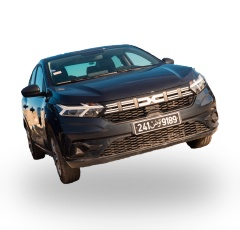
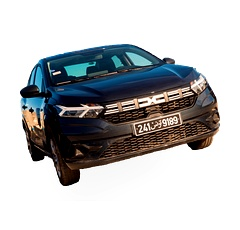
first test

diff --git a/projects/car_preprocessing/src/dataset_builder/studio_processor.py b/projects/car_preprocessing/src/dataset_builder/studio_processor.py
@@ -1,0 +1,268 @@
+"""
+Module de post-traitement pour simuler un rendu studio professionnel.
+Auteur: Expert Senior Python & Computer Vision
+"""
+
+import numpy as np
+from PIL import Image, ImageEnhance, ImageFilter
+import cv2
+
+
+def apply_professional_studio_look(
+    rgba_image,
+    output_size=(1024, 1024),
+    padding=100,
+    shadow_opacity=0.3,
+    shadow_blur_radius=50,
+    shadow_offset_y=30,
+    shadow_flatten_factor=0.6,
+    sharpness_factor=1.3,
+    contrast_factor=1.15,
+    saturation_factor=1.2,
+    background_color=(255, 255, 255)
+):
+    """
+    Applique un post-traitement professionnel à une image RGBA détourée.
+    
+    Cette fonction simule une photo prise en studio professionnel avec :
+    - Ombre portée réaliste (drop shadow avec perspective)
+    - Color grading (netteté, contraste, saturation)
+    - Composition centrée sur fond blanc
+    
+    Args:
+        rgba_image: PIL.Image en mode RGBA (objet sur fond transparent)
+        output_size: Tuple (width, height) pour la taille finale (carré recommandé)
+        padding: Marge autour de l'objet en pixels
+        shadow_opacity: Opacité de l'ombre (0.0 à 1.0)
+        shadow_blur_radius: Rayon du flou gaussien pour l'ombre
+        shadow_offset_y: Décalage vertical de l'ombre (pixels)
+        shadow_flatten_factor: Facteur d'aplatissement de l'ombre (0.0 à 1.0)
+        sharpness_factor: Facteur de netteté (1.0 = original, >1.0 = plus net)
+        contrast_factor: Facteur de contraste (1.0 = original, >1.0 = plus de contraste)
+        saturation_factor: Facteur de saturation (1.0 = original, >1.0 = plus saturé)
+        background_color: Couleur de fond RGB (tuple)
+    
+    Returns:
+        PIL.Image: Image finale en mode RGB avec rendu studio professionnel
+    """
+    
+    if not isinstance(rgba_image, Image.Image):
+        raise TypeError("rgba_image doit être un objet PIL.Image")
+    
+    if rgba_image.mode != 'RGBA':
+        raise ValueError("L'image doit être en mode RGBA")
+    
+    # ========================================================================
+    # ÉTAPE 1: EXTRACTION DU CANAL ALPHA ET CALCUL DE LA BOUNDING BOX
+    # ========================================================================
+    
+    # Extraire le canal alpha (masque de l'objet)
+    alpha_channel = rgba_image.split()[3]
+    
+    # Trouver la bounding box de l'objet (zone non-transparente)
+    bbox = alpha_channel.getbbox()
+    
+    if bbox is None:
+        # Image complètement transparente, retourner un fond blanc
+        return Image.new('RGB', output_size, background_color)
+    
+    # Extraire l'objet selon sa bounding box
+    cropped_rgba = rgba_image.crop(bbox)
+    obj_width, obj_height = cropped_rgba.size
+    
+    # ========================================================================
+    # ÉTAPE 2: CALCUL DES DIMENSIONS FINALES AVEC PADDING
+    # ========================================================================
+    
+    # Calculer l'échelle pour que l'objet rentre dans output_size avec padding
+    max_obj_width = output_size[0] - (2 * padding)
+    max_obj_height = output_size[1] - (2 * padding)
+    
+    scale = min(max_obj_width / obj_width, max_obj_height / obj_height)
+    
+    # Nouvelles dimensions de l'objet
+    new_width = int(obj_width * scale)
+    new_height = int(obj_height * scale)
+    
+    # Redimensionner l'objet (haute qualité)
+    resized_rgba = cropped_rgba.resize(
+        (new_width, new_height),
+        Image.Resampling.LANCZOS
+    )
+    
+    # ========================================================================
+    # ÉTAPE 3: GÉNÉRATION DE L'OMBRE PORTÉE RÉALISTE (DROP SHADOW)
+    # ========================================================================
+    
+    print("[Studio] Génération de l'ombre portée...")
+    
+    # 3.1: Extraire le canal alpha de l'objet redimensionné
+    alpha_resized = resized_rgba.split()[3]
+    
+    # 3.2: Créer le masque d'ombre à partir de l'alpha
+    # L'ombre est une copie du canal alpha
+    shadow_mask = alpha_resized.copy()
+    
+    # 3.3: Aplatir l'ombre (perspective transformation simplifiée)
+    # On réduit la hauteur de l'ombre pour simuler une projection au sol
+    shadow_width = new_width
+    shadow_height = int(new_height * shadow_flatten_factor)
+    
+    # Redimensionner l'ombre (aplatissement)
+    shadow_flattened = shadow_mask.resize(
+        (shadow_width, shadow_height),
+        Image.Resampling.LANCZOS
+    )
+    
+    # 3.4: Appliquer un flou gaussien pour adoucir l'ombre
+    shadow_blurred = shadow_flattened.filter(
+        ImageFilter.GaussianBlur(radius=shadow_blur_radius)
+    )
+    
+    # 3.5: Ajuster l'opacité de l'ombre
+    # Convertir en numpy pour manipulation rapide
+    shadow_array = np.array(shadow_blurred).astype(np.float32)
+    shadow_array = shadow_array * shadow_opacity
+    shadow_final = Image.fromarray(shadow_array.astype(np.uint8), mode='L')
+    
+    # ========================================================================
+    # ÉTAPE 4: COMPOSITION SUR FOND BLANC
+    # ========================================================================
+    
+    print("[Studio] Composition sur fond blanc...")
+    
+    # 4.1: Créer le canvas blanc final
+    final_canvas = Image.new('RGB', output_size, background_color)
+    
+    # 4.2: Calculer la position centrée de l'objet
+    obj_x = (output_size[0] - new_width) // 2
+    obj_y = (output_size[1] - new_height) // 2
+    
+    # 4.3: Calculer la position de l'ombre (décalée vers le bas)
+    shadow_x = (output_size[0] - shadow_width) // 2
+    shadow_y = obj_y + new_height - shadow_height + shadow_offset_y
+    
+    # 4.4: Créer une image RGBA pour l'ombre (noir avec alpha)
+    shadow_rgba = Image.new('RGBA', output_size, (0, 0, 0, 0))
+    
+    # Créer l'ombre noire avec le masque d'opacité
+    shadow_layer = Image.new('RGBA', (shadow_width, shadow_height), (0, 0, 0, 255))
+    shadow_layer.putalpha(shadow_final)
+    
+    # Coller l'ombre sur le canvas RGBA
+    shadow_rgba.paste(shadow_layer, (shadow_x, shadow_y), shadow_layer)
+    
+    # 4.5: Convertir le canvas blanc en RGBA pour la composition
+    canvas_rgba = final_canvas.convert('RGBA')
+    
+    # 4.6: Composer l'ombre sur le canvas
+    canvas_with_shadow = Image.alpha_composite(canvas_rgba, shadow_rgba)
+    
+    # 4.7: Composer l'objet par-dessus l'ombre
+    canvas_with_shadow.paste(resized_rgba, (obj_x, obj_y), resized_rgba)
+    
+    # Convertir en RGB
+    result = canvas_with_shadow.convert('RGB')
+    
+    # ========================================================================
+    # ÉTAPE 5: COLOR GRADING (AMÉLIORATION DE L'IMAGE)
+    # ========================================================================
+    
+    print("[Studio] Application du color grading...")
+    
+    # 5.1: Augmenter la netteté (Sharpness)
+    enhancer_sharpness = ImageEnhance.Sharpness(result)
+    result = enhancer_sharpness.enhance(sharpness_factor)
+    
+    # 5.2: Augmenter le contraste
+    enhancer_contrast = ImageEnhance.Contrast(result)
+    result = enhancer_contrast.enhance(contrast_factor)
+    
+    # 5.3: Augmenter la saturation
+    enhancer_color = ImageEnhance.Color(result)
+    result = enhancer_color.enhance(saturation_factor)
+    
+    print("[Studio] Rendu professionnel terminé.")
+    
+    return result
+
+
+def process_folder(input_folder, output_folder, **kwargs):
+    """
+    Traite un dossier d'images RGBA en boucle.
+    
+    Args:
+        input_folder: Chemin du dossier contenant les images RGBA
+        output_folder: Chemin du dossier de sortie
+        **kwargs: Arguments à passer à apply_professional_studio_look
+    """
+    import os
+    from pathlib import Path
+    
+    input_path = Path(input_folder)
+    output_path = Path(output_folder)
+    output_path.mkdir(parents=True, exist_ok=True)
+    
+    # Extensions supportées
+    extensions = ['.png', '.PNG']
+    
+    image_files = []
+    for ext in extensions:
+        image_files.extend(input_path.glob(f'*{ext}'))
+    
+    print(f"[Studio] {len(image_files)} images trouvées.")
+    
+    for img_file in image_files:
+        print(f"\n[Studio] Traitement de {img_file.name}...")
+        
+        try:
+            # Charger l'image RGBA
+            rgba_img = Image.open(img_file)
+            
+            if rgba_img.mode != 'RGBA':
+                print(f"[Studio] ATTENTION: {img_file.name} n'est pas en RGBA. Conversion...")
+                rgba_img = rgba_img.convert('RGBA')
+            
+            # Appliquer le traitement studio
+            result = apply_professional_studio_look(rgba_img, **kwargs)
+            
+            # Sauvegarder
+            output_file = output_path / f"{img_file.stem}_studio.jpg"
+            result.save(output_file, 'JPEG', quality=95)
+            
+            print(f"[Studio] ✓ Sauvegardé: {output_file.name}")
+            
+        except Exception as e:
+            print(f"[Studio] ✗ ERREUR sur {img_file.name}: {e}")
+            continue
+    
+    print(f"\n[Studio] Traitement terminé. {len(image_files)} images traitées.")
+
+
+# ============================================================================
+# EXEMPLE D'UTILISATION
+# ============================================================================
+
+if __name__ == "__main__":
+    """
+    Exemple d'utilisation en ligne de commande.
+    """
+    
+    # Exemple 1: Traiter une seule image
+    # rgba_img = Image.open("voiture_detouree.png")
+    # result = apply_professional_studio_look(rgba_img)
+    # result.save("voiture_studio.jpg", quality=95)
+    
+    # Exemple 2: Traiter un dossier complet
+    process_folder(
+        input_folder="./images_detourees",
+        output_folder="./images_studio",
+        output_size=(1024, 1024),
+        padding=100,
+        shadow_opacity=0.3,
+        shadow_blur_radius=50,
+        shadow_offset_y=30,
+        sharpness_factor=1.3,
+        contrast_factor=1.15,
+        saturation_factor=1.2
+    )

diff --git a/projects/car_preprocessing/src/dataset_builder/dataset_builder.py b/projects/car_preprocessing/src/dataset_builder/dataset_builder.py
@@ -6,6 +6,9 @@ from .mask_generator import MaskGenerator
 from .bbox_detector import BBoxDetector
 from .label_manager import LabelManager
 from .utils_image import apply_white_background, center_and_resize_car
+from .studio_processor import apply_professional_studio_look
+from PIL import Image
+import numpy as np
 
 class DatasetBuilder:
     def __init__(self, raw_data_dir, output_dir):
@@ -59,22 +62,45 @@ class DatasetBuilder:
         print("[Process] Étape 2 : Génération du masque...")
         mask = self.mask_generator.generate_mask(image_rgb, bbox)
 
-        # 3. APPLICATION FOND BLANC ET REDIMENSIONNEMENT
-        print("[Process] Étape 3 : Application du fond blanc et redimensionnement...")
-        # processed = apply_white_background(image_rgb, mask)
-        processed = center_and_resize_car(image_rgb, mask, bbox)
+        # 3. CRÉATION IMAGE RGBA POUR STUDIO PROCESSOR
+        print("[Process] Étape 3 : Création de l'image RGBA...")
+        # Convertir en PIL pour manipulation RGBA
+        img_pil = Image.fromarray(image_rgb)
+        mask_pil = Image.fromarray(mask)
+        
+        # Créer l'image RGBA (RGB + Alpha)
+        rgba_image = img_pil.convert('RGBA')
+        rgba_image.putalpha(mask_pil)
+        
+        # 4. APPLICATION DU RENDU STUDIO PROFESSIONNEL
+        print("[Process] Étape 4 : Application du rendu studio professionnel...")
+        processed_pil = apply_professional_studio_look(
+            rgba_image,
+            output_size=(240, 230),
+            padding=20,
+            shadow_opacity=0.35,
+            shadow_blur_radius=30,
+            shadow_offset_y=15,
+            shadow_flatten_factor=0.5,
+            sharpness_factor=1.3,
+            contrast_factor=1.15,
+            saturation_factor=1.2
+        )
+        
+        # Convertir PIL → numpy pour sauvegarde avec cv2
+        processed = np.array(processed_pil)
 
-        # 4. SAUVEGARDE IMAGES
+        # 5. SAUVEGARDE IMAGES
         save_path = os.path.join(self.processed_dir, filename)
         cv2.imwrite(save_path, cv2.cvtColor(processed, cv2.COLOR_RGB2BGR))
         print(f"[Process] Image modifiée sauvegardée → {save_path}")
 
-        # 5. SAUVEGARDE MASQUE
+        # 6. SAUVEGARDE MASQUE
         mask_filename = f"{os.path.splitext(filename)[0]}_mask.png"
         cv2.imwrite(os.path.join(self.annotations_dir, mask_filename), mask)
         print(f"[Process] Masque sauvegardé → {mask_filename}")
 
-        # 6. SAUVEGARDE ANNOTATION JSON
+        # 7. SAUVEGARDE ANNOTATION JSON
         self.label_manager.save_annotation(
             image_name=filename,
             bbox=bbox,
